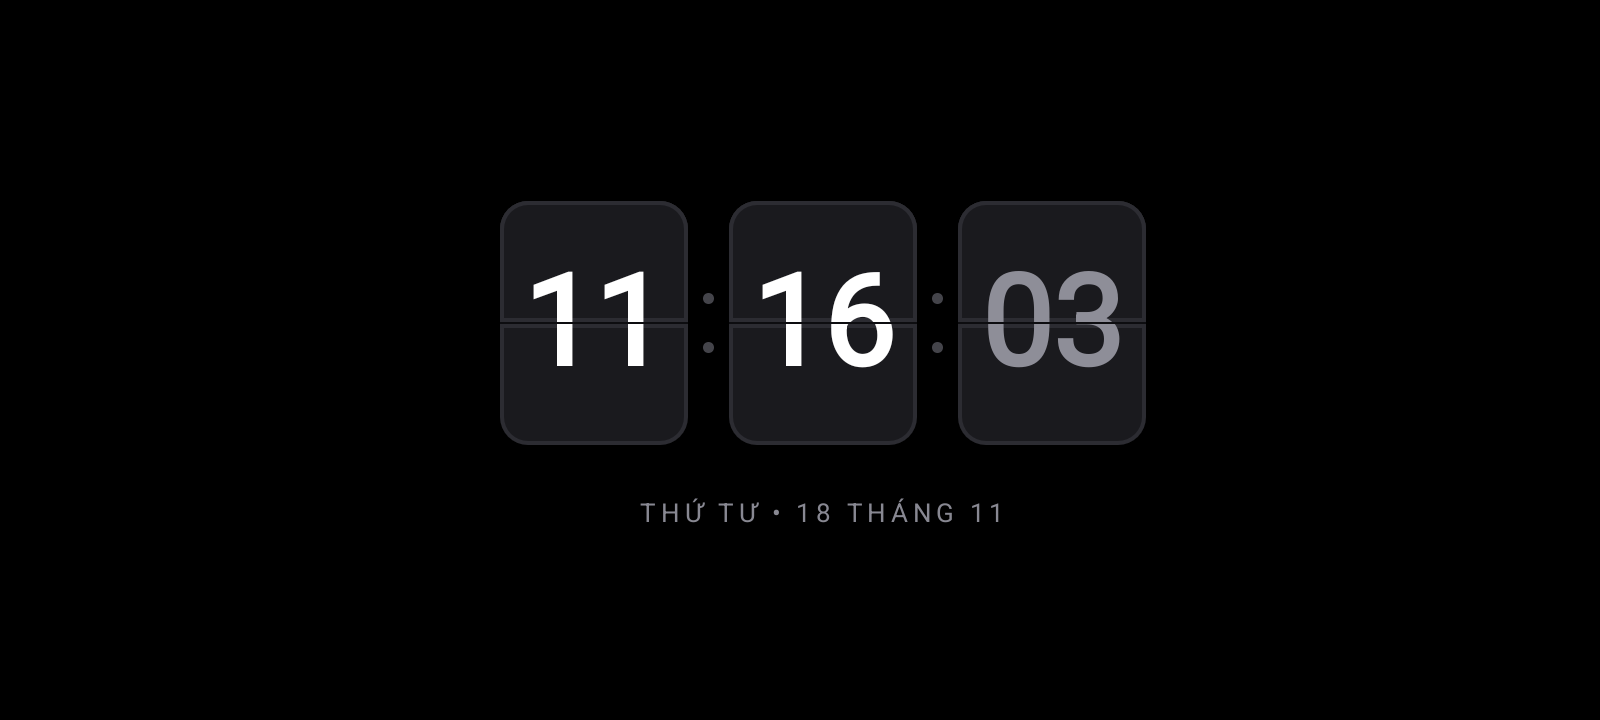
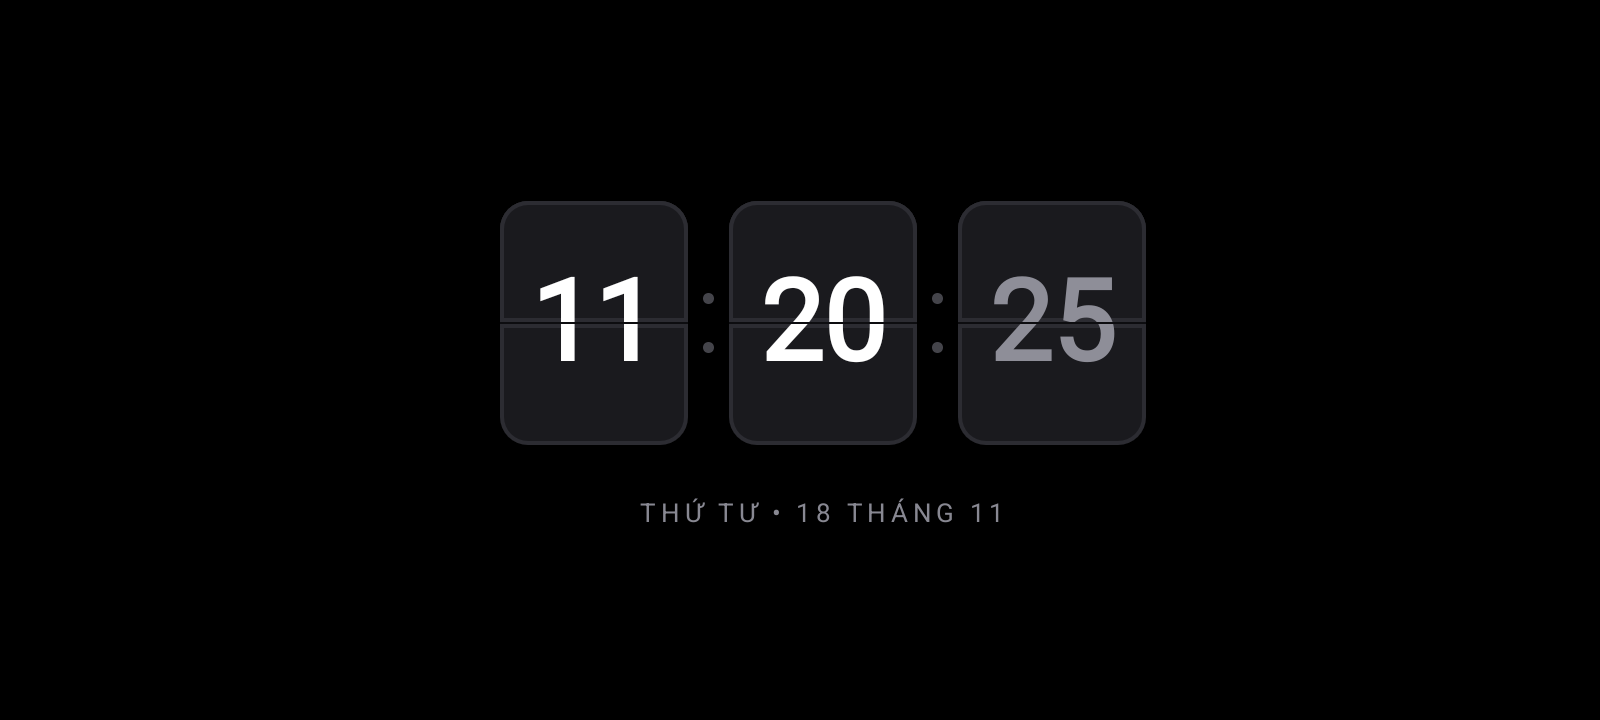
feat: finalize authentic split-flap calendar clock with strict canvas clipping and calm linear motion

Changed region(s): [[0.5938, 0.3667, 0.7188, 0.5194], [0.4688, 0.3667, 0.5625, 0.5194], [0.3125, 0.3667, 0.4062, 0.5194]]

diff --git a/app/src/main/java/com/droidx/launcher/SplitFlipCardView.java b/app/src/main/java/com/droidx/launcher/SplitFlipCardView.java
@@ -9,8 +9,7 @@ import android.graphics.drawable.Drawable;
 import android.util.AttributeSet;
 import android.util.TypedValue;
 import android.view.View;
-import android.view.animation.AccelerateInterpolator;
-import android.view.animation.DecelerateInterpolator;
+import android.view.animation.LinearInterpolator;
 import android.widget.FrameLayout;
 
 public class SplitFlipCardView extends FrameLayout {
@@ -26,6 +25,8 @@ public class SplitFlipCardView extends FrameLayout {
     private int cardWidth = 0;
     private int cardHeight = 0;
     private int halfHeight = 0;
+    private int topH = 0;
+    private int bottomTop = 0;
     private int seamHeight = 2; // px
 
     public SplitFlipCardView(Context context) {
@@ -53,17 +54,18 @@ public class SplitFlipCardView extends FrameLayout {
 
     private void init(Context context) {
         float density = getResources().getDisplayMetrics().density;
-        textSizePx = TypedValue.applyDimension(TypedValue.COMPLEX_UNIT_SP, 68, getResources().getDisplayMetrics());
+        // 60sp font size provides clean, uncrowded spacing inside 100x130dp cards
+        textSizePx = TypedValue.applyDimension(TypedValue.COMPLEX_UNIT_SP, 60, getResources().getDisplayMetrics());
         seamHeight = Math.max(2, (int) (2 * density));
 
         setClipChildren(false);
         setClipToPadding(false);
 
-        // 1. Top Static (reveals new value top half)
+        // 1. Top Static (reveals upcoming value top half)
         topStatic = new HalfCardView(context, true, R.drawable.bg_flip_card_top);
         addView(topStatic);
 
-        // 2. Bottom Static (shows old value bottom half)
+        // 2. Bottom Static (shows current value bottom half)
         bottomStatic = new HalfCardView(context, false, R.drawable.bg_flip_card_bottom);
         addView(bottomStatic);
 
@@ -87,8 +89,32 @@ public class SplitFlipCardView extends FrameLayout {
     }
 
     @Override
+    protected void onMeasure(int widthMeasureSpec, int heightMeasureSpec) {
+        super.onMeasure(widthMeasureSpec, heightMeasureSpec);
+        int w = getMeasuredWidth();
+        int h = getMeasuredHeight();
+        if (w > 0 && h > 0) {
+            cardWidth = w;
+            cardHeight = h;
+            halfHeight = h / 2;
+            topH = halfHeight - (seamHeight / 2);
+            bottomTop = halfHeight + (seamHeight / 2);
+            int bottomH = h - bottomTop;
+
+            int widthSpec = MeasureSpec.makeMeasureSpec(w, MeasureSpec.EXACTLY);
+            int topSpec = MeasureSpec.makeMeasureSpec(topH, MeasureSpec.EXACTLY);
+            int bottomSpec = MeasureSpec.makeMeasureSpec(bottomH, MeasureSpec.EXACTLY);
+
+            topStatic.measure(widthSpec, topSpec);
+            topFlap.measure(widthSpec, topSpec);
+            bottomStatic.measure(widthSpec, bottomSpec);
+            bottomFlap.measure(widthSpec, bottomSpec);
+            vSeam.measure(widthSpec, MeasureSpec.makeMeasureSpec(seamHeight, MeasureSpec.EXACTLY));
+        }
+    }
+
+    @Override
     protected void onLayout(boolean changed, int left, int top, int right, int bottom) {
-        super.onLayout(changed, left, top, right, bottom);
         int w = right - left;
         int h = bottom - top;
         if (w <= 0 || h <= 0) return;
@@ -96,24 +122,23 @@ public class SplitFlipCardView extends FrameLayout {
         cardWidth = w;
         cardHeight = h;
         halfHeight = h / 2;
-
-        int topH = halfHeight - (seamHeight / 2);
-        int bottomTop = halfHeight + (seamHeight / 2);
+        topH = halfHeight - (seamHeight / 2);
+        bottomTop = halfHeight + (seamHeight / 2);
         int bottomH = h - bottomTop;
 
-        // Position Top Static & Top Flap
+        // Top Static & Top Flap (top edge = 0, bottom edge = topH)
         topStatic.layout(0, 0, w, topH);
         topFlap.layout(0, 0, w, topH);
         topFlap.setPivotX(w / 2f);
         topFlap.setPivotY(topH); // Hinge anchored exactly at the center seam!
 
-        // Position Bottom Static & Bottom Flap
+        // Bottom Static & Bottom Flap (top edge = bottomTop, bottom edge = h)
         bottomStatic.layout(0, bottomTop, w, bottomTop + bottomH);
         bottomFlap.layout(0, bottomTop, w, bottomTop + bottomH);
         bottomFlap.setPivotX(w / 2f);
         bottomFlap.setPivotY(0f); // Hinge anchored exactly at the center seam!
 
-        // Position Center Seam
+        // Center Seam Line
         vSeam.layout(0, topH, w, bottomTop);
     }
 
@@ -156,20 +181,20 @@ public class SplitFlipCardView extends FrameLayout {
         bottomFlap.setRotationX(-90f);
         bottomFlap.setVisibility(View.GONE);
 
-        // 4. Animate Top Flap (0 -> 90 deg down towards center hinge)
+        // 4. Smooth linear fold down from 0 to 90 deg (calm, steady, no whip)
         topFlap.animate()
                 .rotationX(90f)
                 .setDuration(durationHalf)
-                .setInterpolator(new AccelerateInterpolator(1.15f))
+                .setInterpolator(new LinearInterpolator())
                 .withEndAction(() -> {
                     topFlap.setVisibility(View.GONE);
                     bottomFlap.setVisibility(View.VISIBLE);
 
-                    // 5. Animate Bottom Flap (-90 -> 0 deg settling down on bottom card)
+                    // 5. Smooth linear unfold from -90 to 0 deg
                     bottomFlap.animate()
                             .rotationX(0f)
                             .setDuration(durationHalf)
-                            .setInterpolator(new DecelerateInterpolator(1.15f))
+                            .setInterpolator(new LinearInterpolator())
                             .withEndAction(() -> {
                                 bottomStatic.setText(newValue);
                                 bottomFlap.setVisibility(View.GONE);
@@ -217,31 +242,32 @@ public class SplitFlipCardView extends FrameLayout {
 
         @Override
         protected void onDraw(Canvas canvas) {
-            super.onDraw(canvas);
             int w = getWidth();
             int h = getHeight();
-            if (w <= 0 || h <= 0) return;
+            if (w <= 0 || h <= 0 || cardHeight <= 0) return;
+
+            // STRICT CANVAS CLIPPING: Physically impossible for any pixel to draw outside [0, 0, w, h]
+            canvas.save();
+            canvas.clipRect(0, 0, w, h);
 
             // Draw half-card background (rounded outer corners, flat inner meeting edge)
             bgDrawable.setBounds(0, 0, w, h);
             bgDrawable.draw(canvas);
 
-            // Compute baseline so text is centered across the FULL card height (2 * h + seam)
-            int fullH = (2 * h) + seamHeight;
-            float fontCenterOffset = (textPaint.descent() + textPaint.ascent()) / 2f;
-            float fullBaseline = (fullH / 2f) - fontCenterOffset;
+            // Compute baseline so text is centered across the FULL card height
+            Paint.FontMetrics fm = textPaint.getFontMetrics();
+            float fontCenterOffset = (fm.descent + fm.ascent) / 2f;
+            float fullBaseline = (cardHeight / 2f) - fontCenterOffset;
 
-            canvas.save();
             if (isTop) {
-                // Top half: draws the top part of the digit (0 to h)
-                // Strictly clipped to view bounds: cannot draw beyond h!
+                // Top half: draws upper part of text
                 canvas.drawText(text, w / 2f, fullBaseline, textPaint);
             } else {
-                // Bottom half: shifts canvas by -(h + seamHeight) so only bottom part of digit is drawn
-                // Strictly clipped to view bounds: cannot draw above 0!
-                canvas.translate(0, -(h + seamHeight));
+                // Bottom half: translate up by bottomTop so only lower part of text is drawn
+                canvas.translate(0, -bottomTop);
                 canvas.drawText(text, w / 2f, fullBaseline, textPaint);
             }
+
             canvas.restore();
         }
     }
